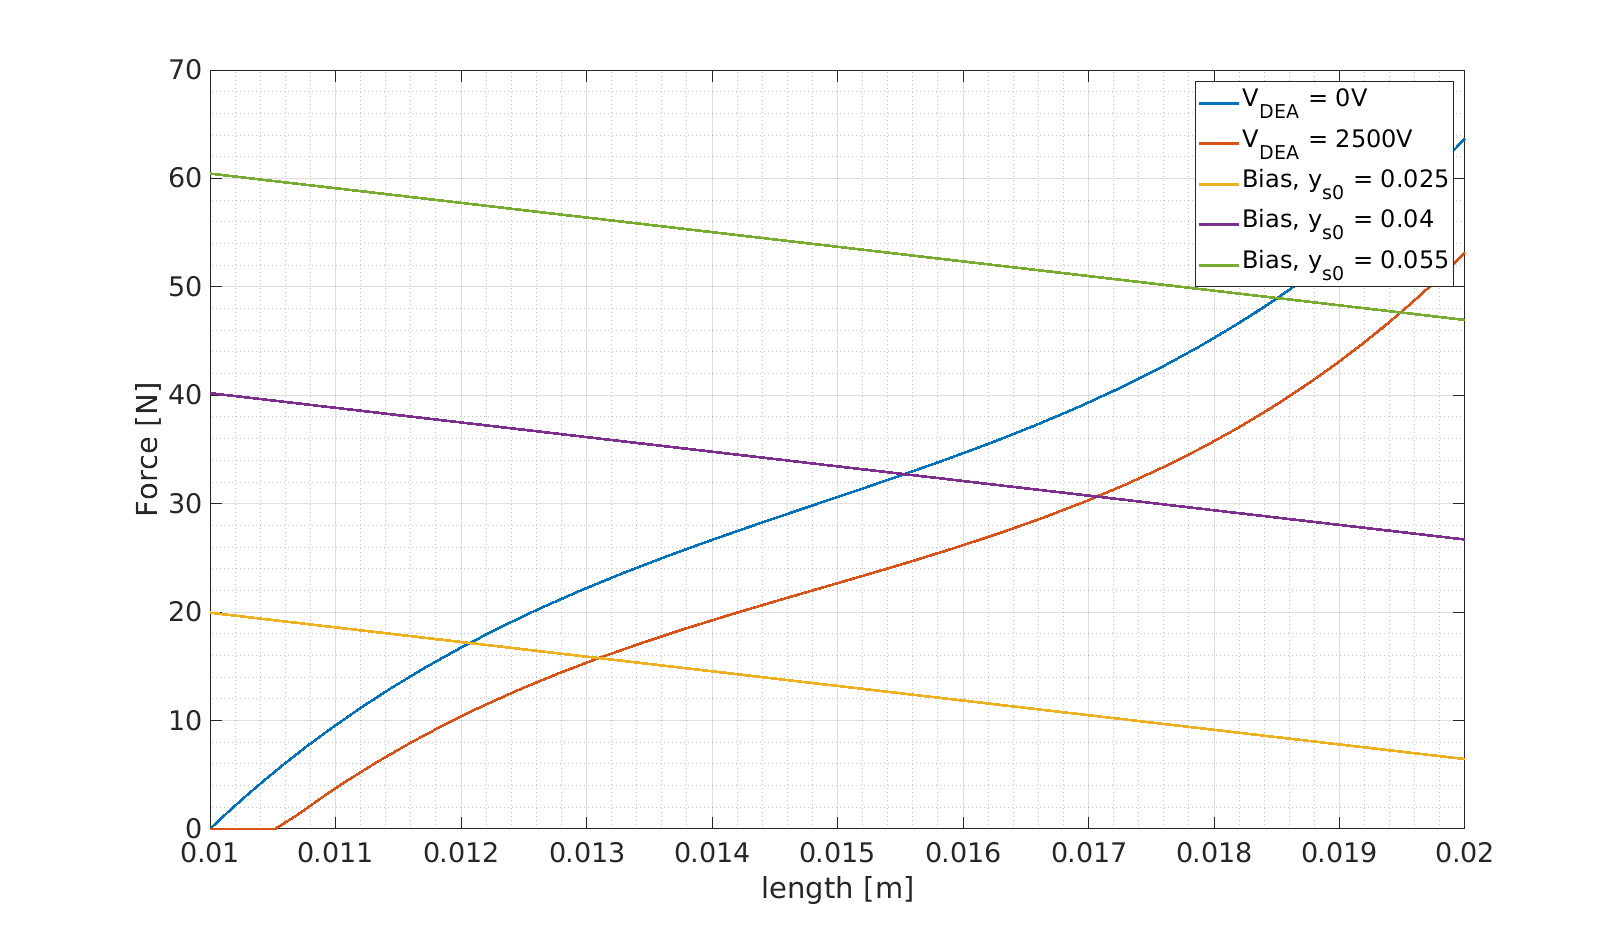
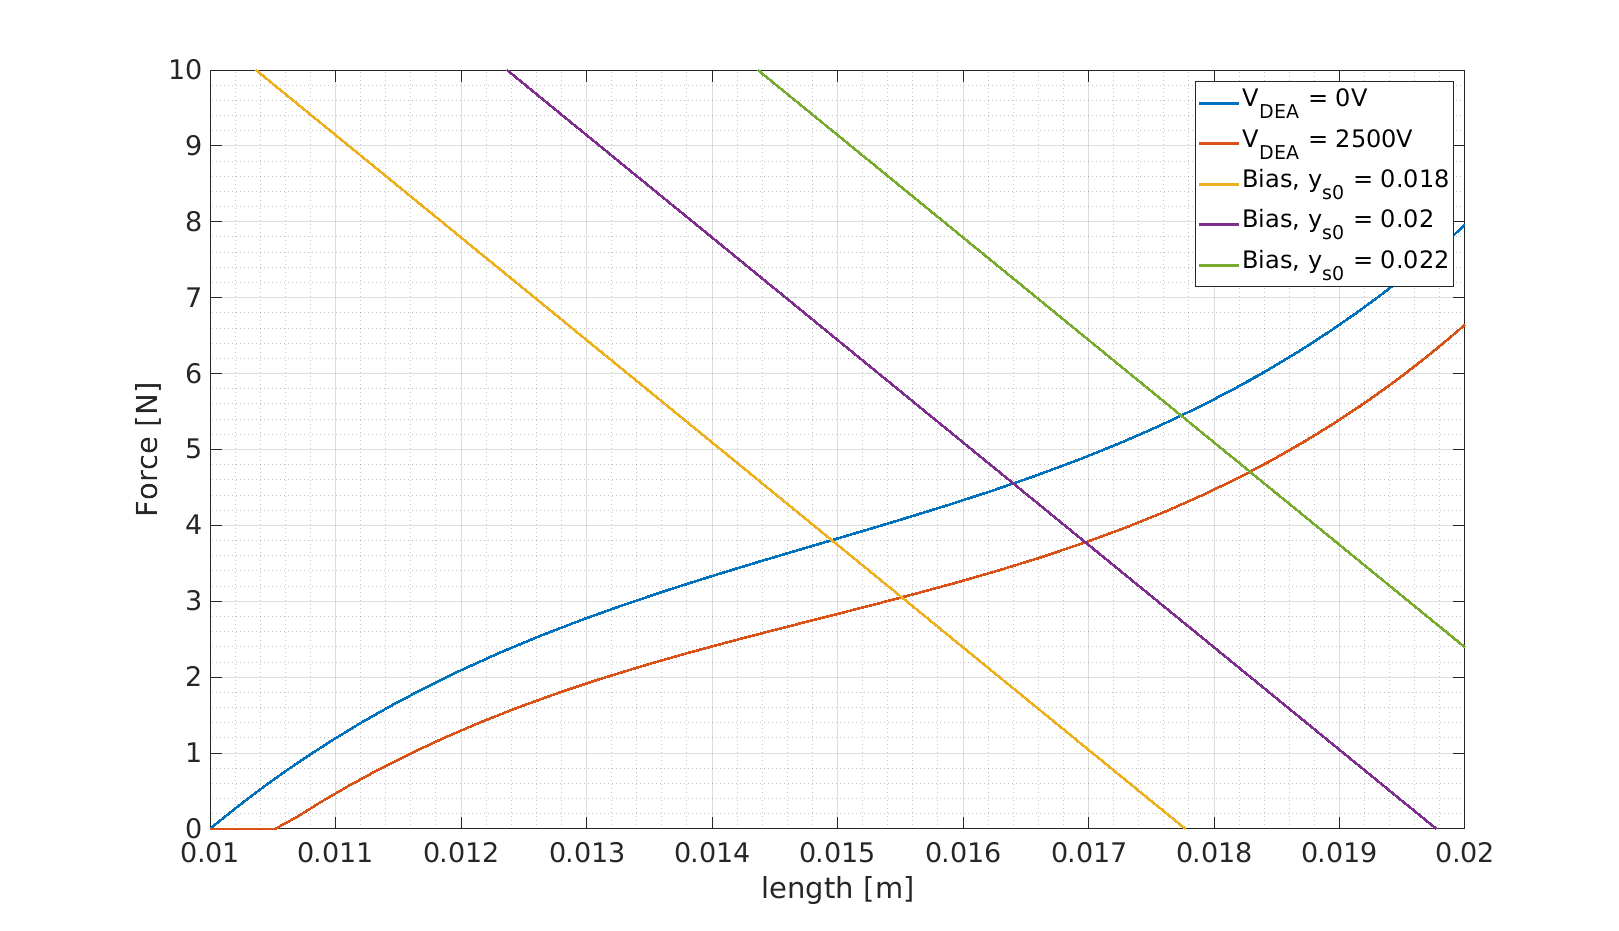
fixed task 1

diff --git a/exam 02/task1/plot_task1.m b/exam 02/task1/plot_task1.m
@@ -27,15 +27,15 @@ param_v = 2500;
 a = sim('DEA_strip_t1', 'SimulationMode', 'normal');
 plot(a.get('length'), a.get('force'), 'Linewidth', 2, 'DisplayName', 'V_{DEA} = 2500V');
 
-param_ys0 = 0.025;
+param_ys0 = 0.018;
 a = sim('DEA_strip_t1', 'SimulationMode', 'normal');
 plot(a.get('length'), a.get('bias_force'), 'Linewidth', 2, 'DisplayName', 'Bias, y_{s0} = ' + string(param_ys0));
 
-param_ys0 = 0.040;
+param_ys0 = 0.020;
 a = sim('DEA_strip_t1', 'SimulationMode', 'normal');
 plot(a.get('length'), a.get('bias_force'), 'Linewidth', 2, 'DisplayName', 'Bias, y_{s0} = ' + string(param_ys0));
 
-param_ys0 = 0.055;
+param_ys0 = 0.022;
 a = sim('DEA_strip_t1', 'SimulationMode', 'normal');
 plot(a.get('length'), a.get('bias_force'), 'Linewidth', 2, 'DisplayName', 'Bias, y_{s0} = ' + string(param_ys0));
 
@@ -45,7 +45,7 @@ plot(a.get('length'), a.get('bias_force'), 'Linewidth', 2, 'DisplayName', 'Bias,
 
 
 
-
+ylim([0 10]);
 grid;
 grid minor;
 ylabel 'Force [N]';
